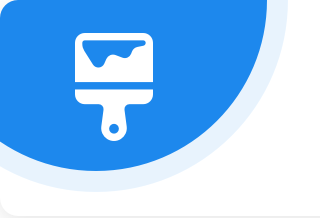
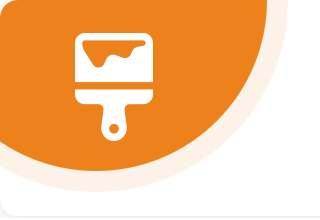
frontend changes

diff --git a/public/css/style.css b/public/css/style.css
@@ -185,7 +185,7 @@ ol {
     z-index: 99999;
     top: 0;
     left: 0;
-    background: #4834d4;
+    background: #f46327 !important;
     background: -webkit-linear-gradient(to right, #4834d4, #341f97);
     background: -webkit-linear-gradient(left, #4834d4, #341f97);
     background: linear-gradient(to right, #4834d4, #341f97);
@@ -687,7 +687,7 @@ ol {
     padding: 0 20px;
     min-width: 100px;
     color: #fff !important;
-    background: rgb(62, 148, 228);
+    background: rgb(235 96 47);
     height: 35px;
     border-radius: 5px;
     border: 1px solid #fff !important;
@@ -719,7 +719,7 @@ ol {
     color: #fff;
     box-shadow: 0 3ox 20px rgba(0, 0, 0, 0.1);
     border-radius: 7px;
-    background:rgb(62, 148, 228);
+    background:rgb(244 99 39);
     -webkit-transition: all 500ms;
     transition: all 500ms;
 }
@@ -729,7 +729,7 @@ ol {
     color: #fff;
 }
 .dream-btn.green-btn {
-    background:rgb(62, 148, 228)
+    background:rgb(244 99 39);
 }
 .more-btn.pink {
     background: #F69;
@@ -929,11 +929,11 @@ ol {
     opacity: .5;
 }
 .integration-link.light:before{
-    background: #e8f3fd;
+    background: #fdf5e8;
     opacity: 1;
 }
 .integration-link.light .integration-text{
-    color: #3e94e4;
+    color: #eb602f;
     font-weight: 600;
 }
 .integration-link.full:before{
@@ -1761,7 +1761,7 @@ p.artficial:before{
 }
 
 .services-block-four .inner-box h3 a{
-  color: #13287e;
+  color: #222529;
   transition:all 0.3s ease;
   -moz-transition:all 0.3s ease;
   -webkit-transition:all 0.3s ease;
@@ -4228,7 +4228,7 @@ body.light-version {
 .light-version input:valid ~ label,
 .light-version textarea:valid ~ label,
 .light-version .copywrite_text > p > a {
-    color: #13287e ;
+    color: #4a210f ;
 }
 
 .light-version .dream-faq-area dt {
@@ -4398,7 +4398,7 @@ body.light-version {
     }
 }
 .btn{
-    border: 2px solid #007bff
+    border: 2px solid #f46327;
 }
 
 label{

diff --git a/public/css/bootstrap.min.css b/public/css/bootstrap.min.css
@@ -177,7 +177,7 @@ sup {
 }
 
 a {
-    color: #007bff;
+    color: #f46327;
     text-decoration: none;
     background-color: transparent;
     -webkit-text-decoration-skip: objects
@@ -4051,6 +4051,7 @@ input[type=submit].btn-block {
 .nav-link {
     display: block;
     padding: .5rem 1rem
+ 
 }
 
 .nav-link:focus,

diff --git a/resources/views/index.blade.php b/resources/views/index.blade.php
@@ -97,7 +97,7 @@
                         <h1 class="wow fadeInUp" data-wow-delay="0.2s">Online CV Builder With Creative Templates.</h1>
                         <p class="lead">Use professional field-tested resume templates that follow the exact <br> ‘resume rules’ employers look for. Easy to use and done within <br> minutes - try now for free! </p>
             
-                        <div class="dream-btn-group wow fadeInUp" data-wow-delay="0.4s"> <a href="{{ route('home')}}" class="btn dream-btn green-btn"> Create My Resume</a> <a href="#" class="btn dream-btn green-btn mr-3">Choose Template</a> </div>
+                        <div class="dream-btn-group wow fadeInUp" data-wow-delay="0.4s"> <a href="{{ route('home')}}" class="btn dream-btn green-btn mr-3">Get Started</a>  <a href="{{ route('home')}}" class="btn dream-btn green-btn" style="background: #212529;border:2px solid #212529;"> Create My Resume</a></div>
                     </div>
                 </div>
                 <div class="col-12 col-lg-6 col-md-12">
@@ -429,9 +429,9 @@
                     <div class="col-12 col-lg-4 col-md-6">
                         <div class="footer-copywrite-info">
                             <!-- Copywrite -->
-                            <div class="copywrite_text fadeInUp" data-wow-delay="0.2s">
+                            <div class="copywrite_text fadeInUp" data-wow-delay="0.2s"> 
                                 <div class="footer-logo">
-                                    <a href="#"><img src="{{ asset('img/core-img/logo.png') }}"alt="logo"> CV Builder </a>
+                                    <a href="#"><img src="img/core-img/logo.png" alt="logo"> </a>
                                 </div>
                                 <p>Lorem ipsum dolor sit amet, consectetur adipisicing elit. Velit ducimus voluptatibus neque illo id repellat quisquam? Autem expedita earum quae laborum ipsum ad.</p>
                             </div>

diff --git a/resources/views/layouts/app.blade.php b/resources/views/layouts/app.blade.php
@@ -87,11 +87,11 @@
                             <!-- Authentication Links -->
                             @guest
                             <li class="nav-item">
-                                <a class="nav-link" href="{{ route('login') }}">{{ __('Login') }}</a>
+                                <a class="nav-link btn login-btn mr-im" href="{{ route('login') }}">{{ __('Login') }}</a>
                             </li>
                             @if (Route::has('register'))
                             <li class="nav-item">
-                                <a class="nav-link" href="{{ route('register') }}">{{ __('Register') }}</a>
+                                <a class="nav-link btn login-btn mr-im" href="{{ route('register') }}">{{ __('Register') }}</a>
                             </li>
                             @endif
                             @else
